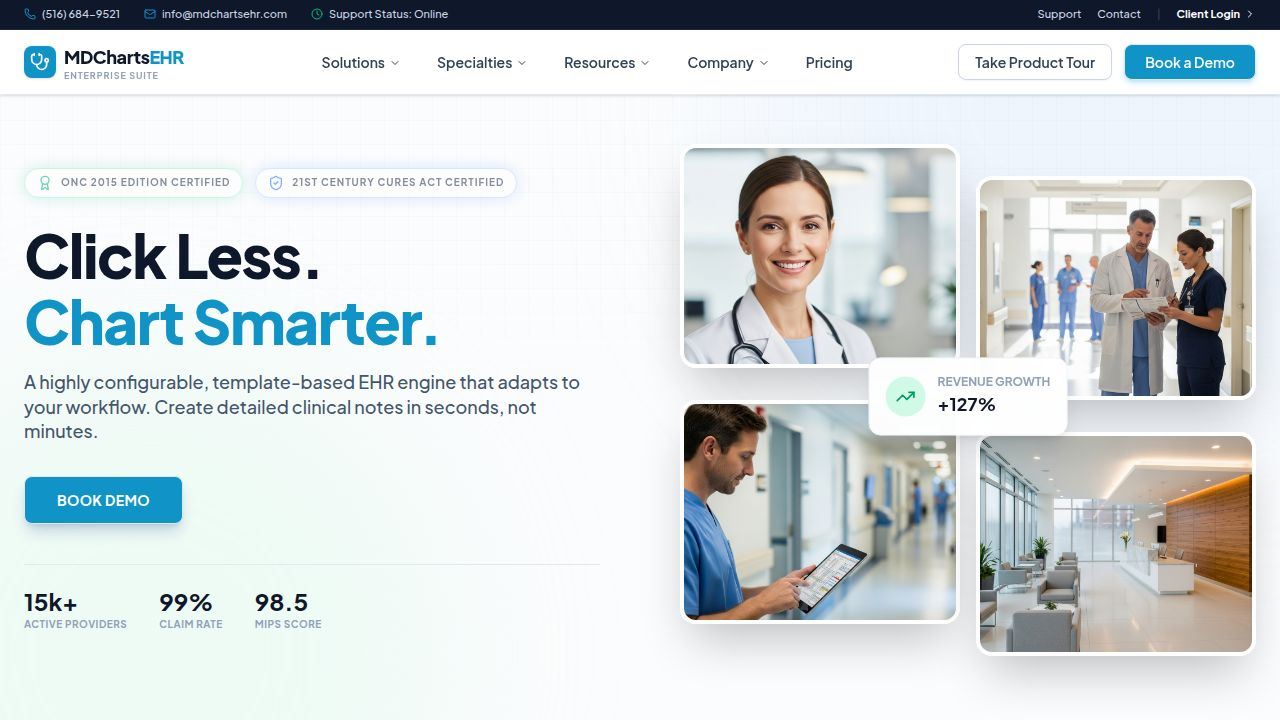
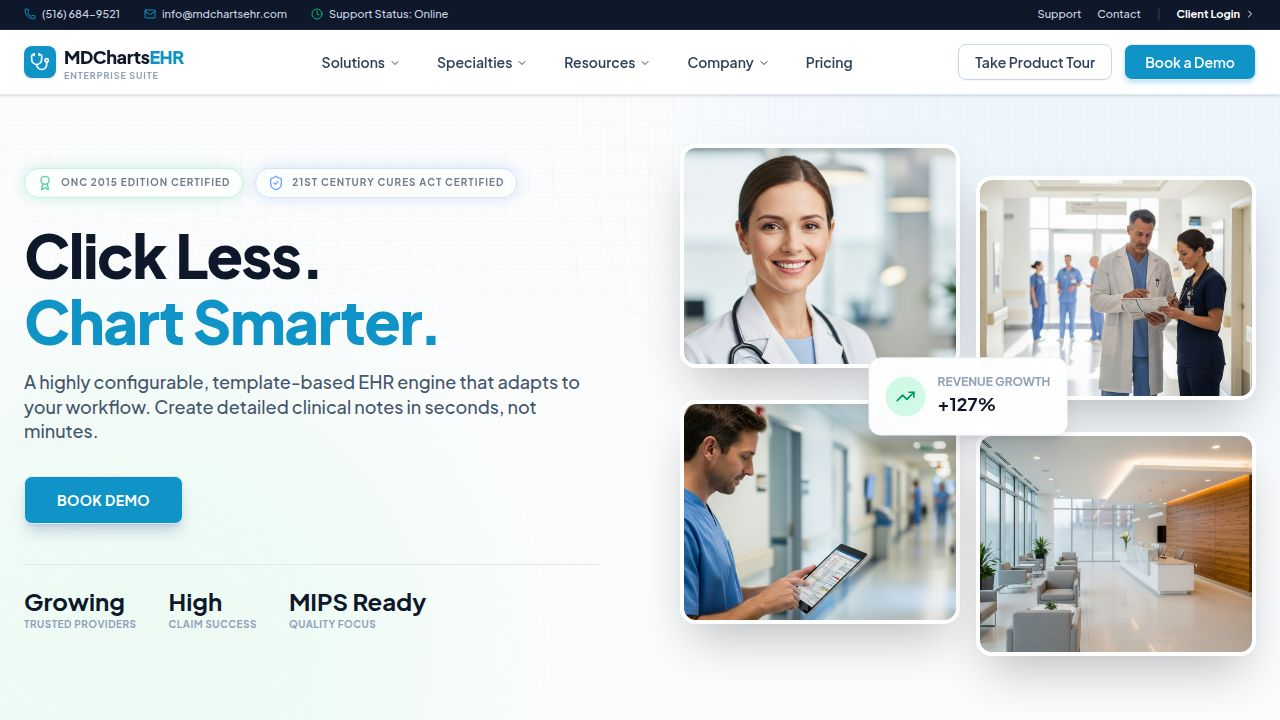
Update pricing page and booking demo to remove prices and link to calendly
Remove explicit pricing from the Pricing page, replacing it with a "Contact for Pricing" call to action that directs users to schedule a demo. The Book Demo page's Calendly widget is updated with additional parameters.

Replit-Commit-Author: Agent
Replit-Commit-Session-Id: 06d38522-12af-48e8-88b8-949e4e4995fc
Replit-Commit-Checkpoint-Type: full_checkpoint
Replit-Commit-Event-Id: e2daacc3-e982-4a7b-8383-a36a2395237f
Replit-Commit-Screenshot-Url: https://storage.googleapis.com/screenshot-production-us-central1/b5dfba87-a687-457e-b0c4-84a10ccf5877/06d38522-12af-48e8-88b8-949e4e4995fc/4qs90CH
Replit-Helium-Checkpoint-Created: true

Changed region(s): [[0.125, 0.825, 0.3438, 0.8861], [0.0, 0.825, 0.0938, 0.8861]]

diff --git a/client/src/pages/Pricing.tsx b/client/src/pages/Pricing.tsx
@@ -24,8 +24,6 @@ const pricingPlans = [
   {
     name: "Starter",
     description: "Perfect for solo practitioners and small practices",
-    price: "299",
-    period: "per provider/month",
     popular: false,
     features: [
       "Core EHR functionality",
@@ -37,14 +35,12 @@ const pricingPlans = [
       "Basic reporting",
       "HIPAA compliant",
     ],
-    cta: "Get Started",
+    cta: "Contact for Pricing",
     highlight: false,
   },
   {
     name: "Professional",
     description: "Ideal for growing practices with advanced needs",
-    price: "499",
-    period: "per provider/month",
     popular: true,
     features: [
       "Everything in Starter, plus:",
@@ -58,14 +54,12 @@ const pricingPlans = [
       "Advanced analytics",
       "Patient engagement tools",
     ],
-    cta: "Start Free Trial",
+    cta: "Contact for Pricing",
     highlight: true,
   },
   {
     name: "Enterprise",
     description: "For large practices and healthcare organizations",
-    price: "Custom",
-    period: "tailored to your needs",
     popular: false,
     features: [
       "Everything in Professional, plus:",
@@ -79,7 +73,7 @@ const pricingPlans = [
       "SLA guarantees",
       "API access",
     ],
-    cta: "Contact Sales",
+    cta: "Contact for Pricing",
     highlight: false,
   },
 ];
@@ -106,8 +100,8 @@ const faqs = [
     answer: "Yes, absolutely. We're ONC 2015 Edition Certified and fully HIPAA compliant. All data is encrypted at rest and in transit, with regular security audits and SOC 2 Type II certification.",
   },
   {
-    question: "Do you offer discounts for annual billing?",
-    answer: "Yes! Save 20% when you choose annual billing. Contact our sales team for multi-year agreements with additional savings.",
+    question: "How do I get pricing information?",
+    answer: "Schedule a demo with our team and we'll provide custom pricing based on your practice size and needs. Contact us to discuss your requirements.",
   },
 ];
 
@@ -128,7 +122,6 @@ const comparisonFeatures = [
 
 export default function Pricing() {
   const [openFaq, setOpenFaq] = useState<number | null>(null);
-  const [billingPeriod, setBillingPeriod] = useState<"monthly" | "annual">("monthly");
 
   return (
     <div className="min-h-screen bg-white font-sans">
@@ -155,35 +148,8 @@ export default function Pricing() {
             </h1>
             
             <p className="text-lg text-slate-600 max-w-2xl mx-auto mb-6">
-              No hidden fees. No long-term contracts. Start with a 30-day free trial and scale as you grow.
+              Contact us for custom pricing tailored to your practice. Schedule a call to discuss your needs.
             </p>
-
-            {/* Billing Toggle */}
-            <div className="inline-flex items-center bg-slate-100 rounded-full p-1 mb-6">
-              <button
-                onClick={() => setBillingPeriod("monthly")}
-                className={`px-6 py-2 rounded-full text-sm font-semibold transition-all ${
-                  billingPeriod === "monthly" 
-                    ? "bg-white text-slate-900 shadow-sm" 
-                    : "text-slate-600 hover:text-slate-900"
-                }`}
-              >
-                Monthly
-              </button>
-              <button
-                onClick={() => setBillingPeriod("annual")}
-                className={`px-6 py-2 rounded-full text-sm font-semibold transition-all flex items-center gap-2 ${
-                  billingPeriod === "annual" 
-                    ? "bg-white text-slate-900 shadow-sm" 
-                    : "text-slate-600 hover:text-slate-900"
-                }`}
-              >
-                Annual
-                <span className="bg-emerald-100 text-emerald-700 text-xs font-bold px-2 py-0.5 rounded-full">
-                  Save 20%
-                </span>
-              </button>
-            </div>
           </motion.div>
         </div>
       </section>
@@ -224,15 +190,12 @@ export default function Pricing() {
 
                 <div className="mb-8">
                   <div className="flex items-baseline gap-1">
-                    {plan.price !== "Custom" && (
-                      <span className={`text-lg ${plan.highlight ? "text-white/80" : "text-slate-500"}`}>$</span>
-                    )}
-                    <span className={`text-5xl font-bold ${plan.highlight ? "text-white" : "text-slate-900"}`}>
-                      {plan.price === "Custom" ? "Custom" : billingPeriod === "annual" ? Math.round(parseInt(plan.price) * 0.8) : plan.price}
+                    <span className={`text-3xl font-bold ${plan.highlight ? "text-white" : "text-slate-900"}`}>
+                      Contact Us
                     </span>
                   </div>
                   <p className={`text-sm mt-1 ${plan.highlight ? "text-white/70" : "text-slate-500"}`}>
-                    {plan.period}
+                    for custom pricing
                   </p>
                 </div>
 
@@ -285,14 +248,14 @@ export default function Pricing() {
               <div className="w-14 h-14 rounded-xl bg-primary/10 flex items-center justify-center mb-3">
                 <Zap className="h-7 w-7 text-primary" />
               </div>
-              <h4 className="font-bold text-slate-900 mb-1">99.9% Uptime</h4>
+              <h4 className="font-bold text-slate-900 mb-1">High Uptime</h4>
               <p className="text-sm text-slate-600">Reliable performance</p>
             </div>
             <div className="flex flex-col items-center">
               <div className="w-14 h-14 rounded-xl bg-primary/10 flex items-center justify-center mb-3">
                 <Users className="h-7 w-7 text-primary" />
               </div>
-              <h4 className="font-bold text-slate-900 mb-1">1000+ Practices</h4>
+              <h4 className="font-bold text-slate-900 mb-1">Growing Practices</h4>
               <p className="text-sm text-slate-600">Trust MDcharts daily</p>
             </div>
             <div className="flex flex-col items-center">
@@ -428,18 +391,18 @@ export default function Pricing() {
               Ready to Transform Your Practice?
             </h2>
             <p className="text-xl text-white/80 max-w-2xl mx-auto mb-8">
-              Join 1000+ healthcare providers who trust MDcharts EHR. Start your free 30-day trial today.
+              Join healthcare providers who trust MDcharts EHR. Schedule a demo to learn more.
             </p>
             <div className="flex flex-col sm:flex-row items-center justify-center gap-4">
               <Link href="/book-demo">
                 <Button size="lg" className="bg-white text-primary hover:bg-slate-100 px-8">
-                  Start Free Trial
+                  Schedule a Demo
                   <ArrowRight className="ml-2 h-5 w-5" />
                 </Button>
               </Link>
-              <Link href="/contact">
+              <Link href="/book-demo">
                 <Button size="lg" variant="outline" className="border-white/30 text-white hover:bg-white/10 px-8">
-                  Talk to Sales
+                  Contact Sales
                 </Button>
               </Link>
             </div>

diff --git a/client/src/pages/BookDemo.tsx b/client/src/pages/BookDemo.tsx
@@ -91,7 +91,7 @@ export default function BookDemo() {
                   <h2 className="font-bold text-lg">Select a Time That Works for You</h2>
                 </div>
                 <InlineWidget 
-                  url="https://calendly.com/testmouli4/30min"
+                  url="https://calendly.com/testmouli4/30min?hide_gdpr_banner=1"
                   styles={{
                     height: '700px',
                     width: '100%'
@@ -103,6 +103,10 @@ export default function BookDemo() {
                     primaryColor: '0891b2',
                     textColor: '1e293b'
                   }}
+                  prefill={{
+                    customAnswers: {}
+                  }}
+                  utm={{}}
                 />
               </motion.div>
             </div>
